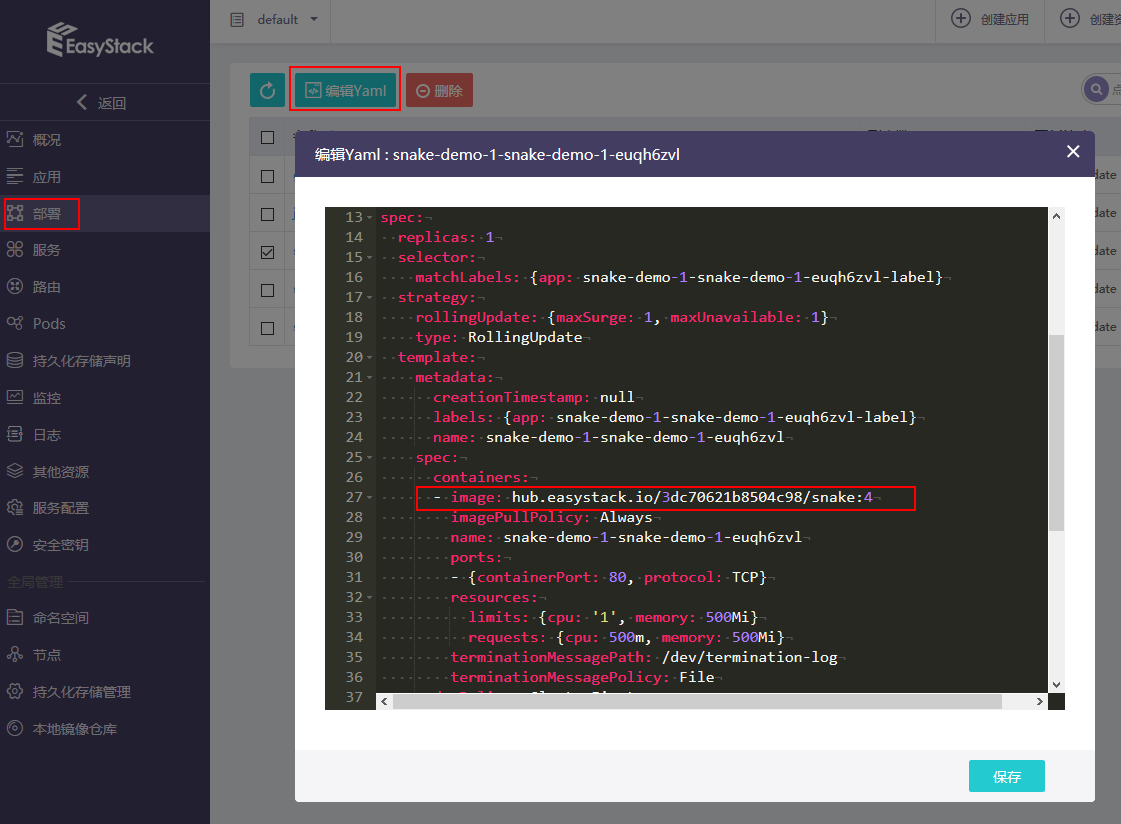
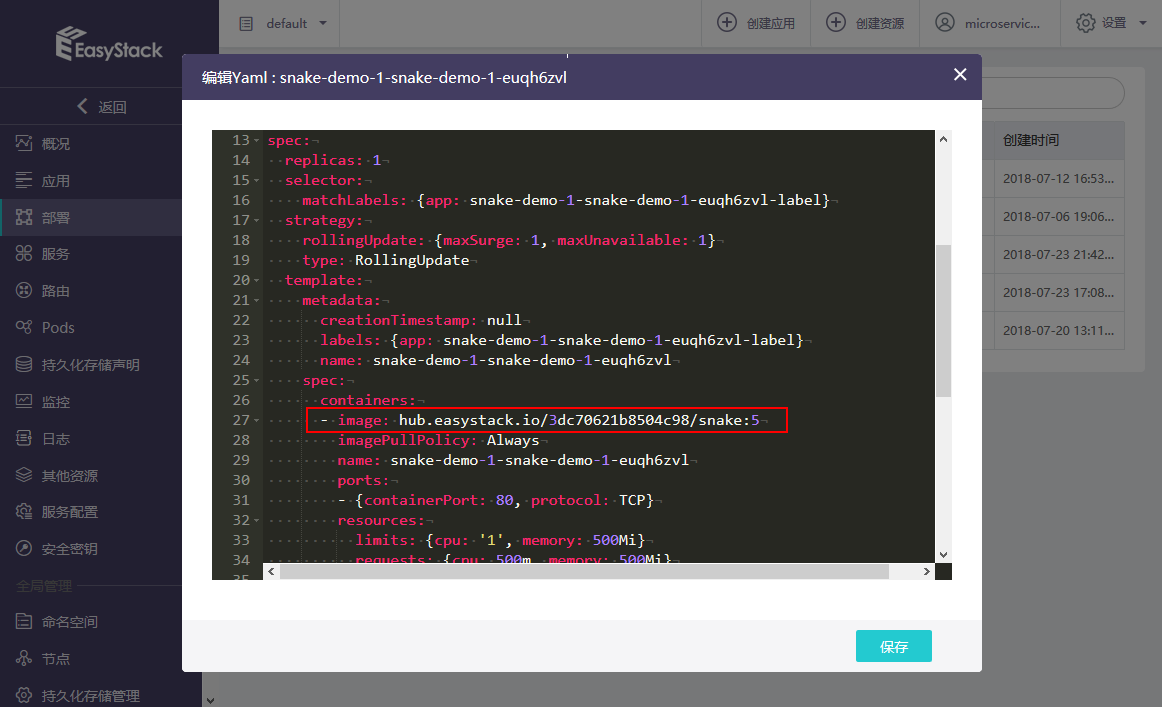
commit

diff --git a/1_基础实践/3_CICD场景实践-JavaScript应用.md b/1_基础实践/3_CICD场景实践-JavaScript应用.md
@@ -270,9 +270,10 @@ podTemplate(name: 'jnlp', label: 'jnlp', namesapce: 'default', cloud: 'kubernete
 
 具体操作步骤参考如下：  
 
-修改GitLab中Snake-demo项目的源代码下的css文件中的 main-snake.css中的xxx。 
-![](Images/3/foodbody.png)
-修改代码并Commit之后，会自动触发Jenkins Pipeline，执行CI/CD流程。  
+修改GitLab中Snake-demo项目的源代码下的css目录下的main-snake.css文件，可参考下图所示：    
+![](Images/3/update-code.png)
+将```.snake-playing-field```的```background-color```参数从```#0000A8```（蓝色）修改为```#008000```（绿色）。 
+修改代码并“Commit change”之后，会自动触发Jenkins Pipeline，执行CI/CD流程。   
 
 在Jenkins Blue Ocean界面中查看Pipeline执行状态：  
 
@@ -280,8 +281,8 @@ podTemplate(name: 'jnlp', label: 'jnlp', namesapce: 'default', cloud: 'kubernete
 
 ![](Images/3/blueocean-pipeline-success.png)
 
-等待自动部署完成后，刷新Snake Demo的Web页面，可以看到食物的颜色由原来的大红色变为了黄色。 
-![](Images/3/change-food-color.png) 
+等待自动部署完成后，刷新Snake Demo的Web页面，可以看到“贪吃蛇”游戏的背景颜色由原来的蓝色变为了绿色。 
+![](Images/3/check-updated-app.png) 
 
 同时，我们也可以在EKS界面查看Kubernetes Deployment所采用的镜像已经完成更新：   
 ![](Images/3/deployment-image-update.png)  
